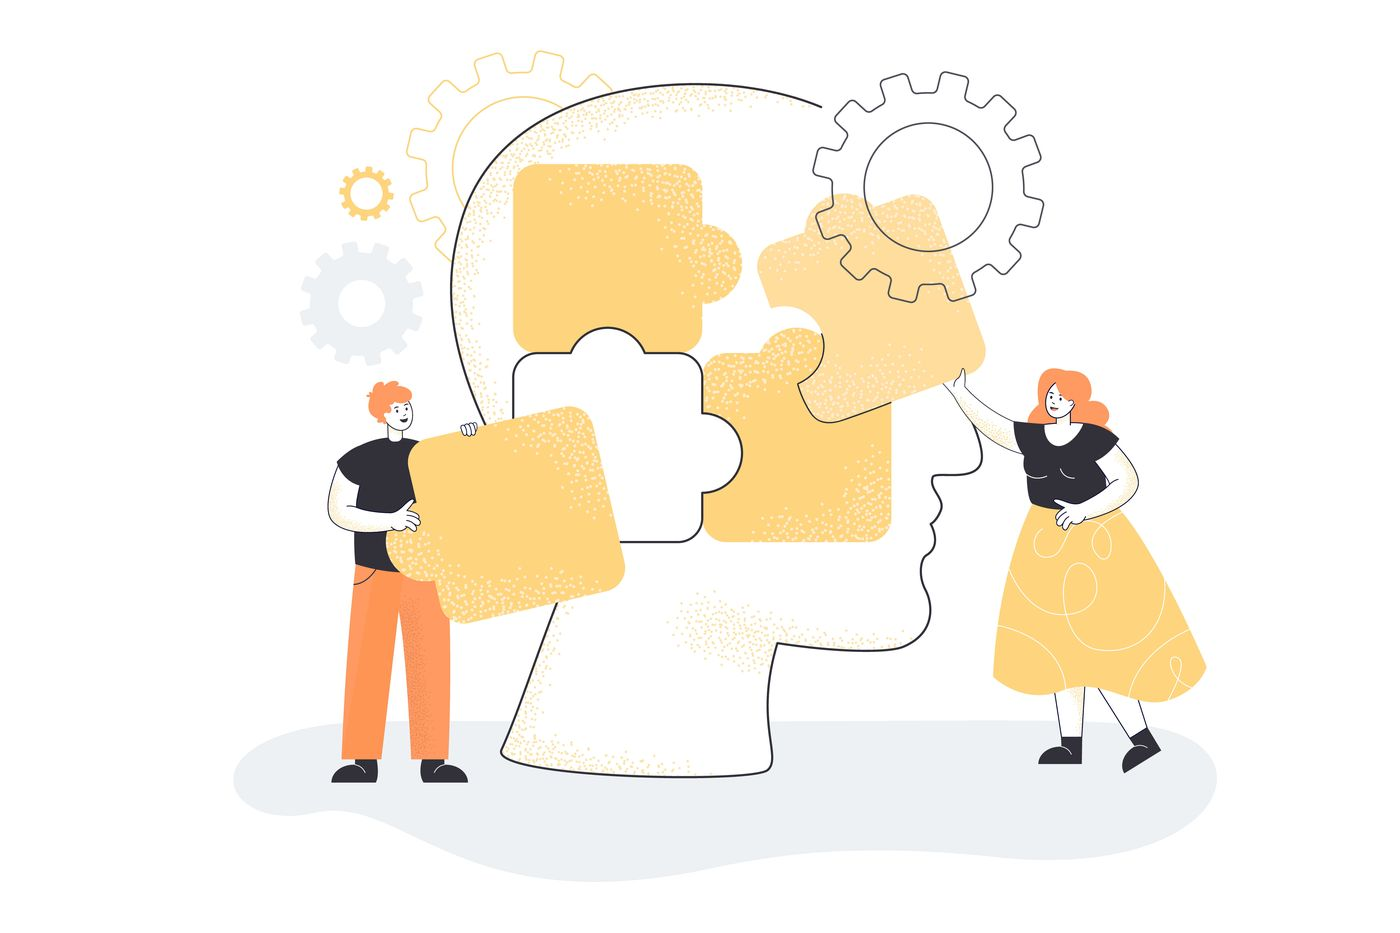
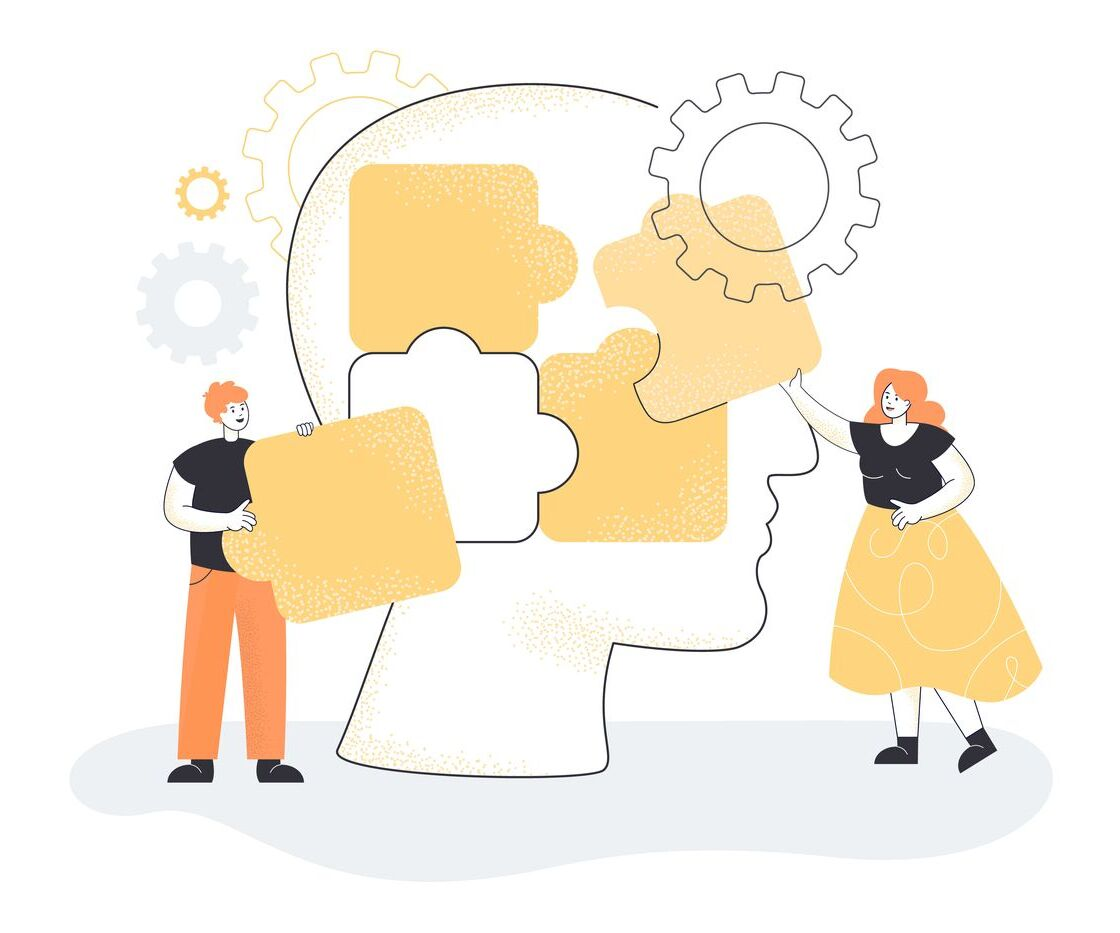
implemento correcciones

Changed region(s): [[0.125, 0.0622, 0.9375, 0.8392], [0.5938, 0.6838, 0.6562, 0.7149]]

diff --git a/index.html b/index.html
@@ -29,6 +29,7 @@
                 </button>
                 <div class="collapse navbar-collapse" id="navbarNavAltMarkup">
                     <div class="navbar-nav">
+                        <a class="nav-link" href="#"><p class="bigText">I</p><p class="normalText">NICIO</p></a>
                         <a class="nav-link" href="#Info Emprendedores" data-bs-toggle="modal" data-bs-target="#exampleModal1"> <p class="bigText">E</p><p class="normalText">MPRENDEDORES </p><p class="bigText"> /</p><p class="normalText">AS</p></a>
                         <a class="nav-link" href="#Info Emprendedores" class="btnInfo" data-bs-toggle="modal" data-bs-target="#exampleModal2"><p class="bigText">P</p><p class="normalText">ROFESIONALES</p></a>
                         <a class="nav-link" href="#quienSoy"><p class="bigText">Q</p><span class="normalText">UIÉN SOY</span></P></a>
@@ -41,7 +42,7 @@
         </nav>
     </header>
     <main class="conatiner-fluid m-0 g-0">
-        <section class="seccion1" id="inicio">
+        <section class="seccion1" id="seccionInicial">
             <div class="ms-md-5 me-md-3 row d-flex flex-md-row g-0">
                 <div class="col-12 col-md-4 ps-md-3 pe-md-5 seccion1__boxIzquierdo">
                     <div class="titledetail">
@@ -177,9 +178,9 @@
             <p class="seccion3__pie--texto1">“Coordinemos una <span class="seccion3__pie--texto2">sesión gratuita de 30 minutos</span> para descubrir la mejor propuesta para vos”.  </p>
         </section>
         <section class="seccion4" id="quienSoy">
-            <img class="imgCecilia" src="images/sobreMi.jpg" style="height: 250px;" alt="">
+            <img class="imgCecilia" src="images/sobreMi.jpg" style="height: 250px;" alt="Imagen Cecilia">
             <div>
-                <h3>Quien soy:</h3>
+                <h3>Quién soy:</h3>
                 <p> <span class="resaltado1">¡Hola! Soy Cecilia Nevole, Psicóloga Laboral, Coach Ontológico y
                         Facilitadora Creativa.</span></p>
                 <p>Durante más de 10 años trabajé en el área de Capital Humano de una reconocida empresa, a cargo de
@@ -209,13 +210,12 @@
                         class="gris">ACCIONAR</span></p>
             </div>
             <div class="metodoEDA">
-                <img src="images/MÉTODO EDA.jpg" alt="">
+                <img src="images/MÉTODO EDA.jpg" alt="Metodo EDA">
             </div>
             <div class="textoEDA">
                 <p>Es un <span class="negrita">PROCESO</span> de <span class="resaltado2">tres etapas</span> que
                     funciona como “itinerario” para llegar a tu <span class="negrita">OBJETIVO</span>, a través de la
-                    exploración de diferentes opciones, soluciones y retos.</p>
-                <p>Todo el recorrido combina <span class="resaltado2">el <span class="negrita">PENSAR</span> y el <span
+                    exploración de diferentes opciones, soluciones y retos. Todo el recorrido combina <span class="resaltado2">el <span class="negrita">PENSAR</span> y el <span
                             class="negrita">HACER</span></span> e invita a conectar con tu <span
                         class="negrita resaltado2">CREATIVIDAD</span> (unir ideas), asumiendo un rol de <span
                         class="negrita resaltado2">PROTAGONISTA</span> (responsable de tu proceso), una <span
@@ -301,7 +301,7 @@
                     <p>Adquirir el mindset de la rápida adaptación ante los cambios.</p>
                 </div>
                 <div class="imagen">
-                    <img src="images/Team of people putting puzzle pieces of huge head together.jpg" alt="">
+                    <img loading="lazy" src="images/Team of people putting puzzle pieces of huge head together.jpg" alt="Personas armando cabeza juntos">
                 </div>
             </div>
             <p class="textoFondo"><span class="resaltado1">ESTA COMBINACIÓN INVITA A PENSAR EN INICIATIVAS MUCHO MÁS ASERTIVAS, COMPRENDER MEJOR CADA DESAFÍO Y CADA SOLUCIÓN QUE SE DISEÑA.</span>
@@ -310,7 +310,7 @@
         </section>
         <section class="seccion9" id="proceso">
             <div class="imagen">
-                <img src="images/Tiny people moving giant gears.jpg" alt="">
+                <img loading="lazy" src="images/Tiny people moving giant gears.jpg" alt="Personas moviendo tuercas">
             </div>
             <div class="texto">
                 <h3><span class="negrita">¿Cómo es el Proceso?
@@ -335,17 +335,17 @@
         </section>
         <section class="seccion10" id="final">
             <div class="imagen">
-                <img src="images/frase_final.jpg" alt="">
+                <img loading="lazy" src="images/frase_final.jpg" alt="Frase Final">
             </div>
             <div class="texto">
                 <p>¿Tenés alguna consulta? ¿Querés más información?</p>
                 <p>Conversemos</p>
             </div>
             <div class="redes">
-                <a href="https://www.instagram.com/eda.mentoring/"><img src="images/instagram-brands.svg" alt=""></a>
-                <a href="https://www.linkedin.com/in/cecilianevole/"><img src="images/linkedin-in-brands.svg" alt=""></a>
-                <a href="mailto:eda.mentoring@gmail.com"><img src="images/envelope-solid.svg" alt=""></a>
-                <a href="https://wa.me/+5491166141508"><img src="images/whatsapp-brands.svg" alt=""></a>
+                <a target="_blank" href="https://www.instagram.com/eda.mentoring/"><img loading="lazy" src="images/instagram-brands.svg" alt="Logo Instagram"></a>
+                <a target="_blank" href="https://www.linkedin.com/in/cecilianevole/"><img loading="lazy" src="images/linkedin-in-brands.svg" alt="Logo Linkedin"></a>
+                <a target="_blank" href="mailto:eda.mentoring@gmail.com"><img loading="lazy" src="images/envelope-solid.svg" alt="Logo Email"></a>
+                <a target="_blank" href="https://wa.me/+5491166141508"><img loading="lazy" src="images/whatsapp-brands.svg" alt="Logo WhatsApp"></a>
             </div>
         </section>
 

diff --git a/css/destino.css b/css/destino.css
@@ -954,15 +954,16 @@ a.btnInfo {
   grid-template-columns: 350px 1fr; }
   .seccion4 div {
     margin-top: 80px;
-    margin-bottom: 10px; }
+    margin-bottom: 10px;
+    padding-bottom: 20px; }
     .seccion4 div h3 {
       font-weight: 700;
       font-family: "Work Sans", sans-serif; }
     .seccion4 div p {
       font-family: "Open Sans", sans-serif;
-      font-size: 18px;
+      font-size: 16px;
       line-height: 30px;
-      padding: 5px 10px 20px 0; }
+      padding: 0 10px 0 0; }
   .seccion4 .imgCecilia {
     margin-top: 100px;
     margin-left: 50px;
@@ -1020,7 +1021,7 @@ a.btnInfo {
     .seccion5 .textoEDA p {
       font-family: "Open Sans", sans-serif;
       padding-right: 50px;
-      line-height: 45px;
+      line-height: 38px;
       font-size: 18px;
       color: #424242; }
 
@@ -1157,34 +1158,40 @@ a.btnInfo {
           font-size: 20px; }
 
 .seccion7 {
-  height: calc(100vh - 70px);
+  height: 100vh;
   display: grid;
   grid-template-rows: 20vh 60vh;
-  justify-content: center; }
+  justify-content: center;
+  background-color: #ffbd4a;
+  position: relative;
+  margin-top: 20px; }
   .seccion7 h2 {
     font-family: "Work Sans", sans-serif;
-    margin-top: 10vh; }
+    margin-top: 15vh; }
   .seccion7 .texto {
-    background-color: #ffbd4a;
+    position: absolute;
     height: 45vh;
     width: 80vw;
-    margin-top: 30px;
+    margin-top: 35vh;
+    margin-left: 10vw;
     display: flex;
-    justify-content: center; }
+    justify-content: center;
+    align-items: center; }
     .seccion7 .texto p {
       font-family: "Open Sans", sans-serif;
       line-height: 70px;
       text-align: center;
       font-size: 20px;
-      padding: 0 15px 40px 15px; }
+      padding: 0 15px 0 15px; }
 
 .seccion8 {
-  height: calc(100vh - 90px);
+  height: 100vh;
   display: grid;
   grid-template-rows: 85% 15%; }
   .seccion8 .principal {
     display: grid;
-    grid-template-columns: 58vw 38vw; }
+    grid-template-columns: 50vw 45vw;
+    margin-top: 7vh; }
     .seccion8 .principal .texto {
       font-size: 18px;
       margin: 30px 10px 0 70px;
@@ -1197,14 +1204,14 @@ a.btnInfo {
       align-content: center;
       align-items: center; }
       .seccion8 .principal .imagen img {
-        width: 40vw; }
+        width: 100%; }
   .seccion8 .textoFondo {
     text-align: center;
     width: 70vw;
     margin: 0 auto; }
 
 .seccion9 {
-  height: calc(100vh - 90px);
+  height: 100vh;
   display: grid;
   grid-template-columns: 50vw 50vw; }
   .seccion9 .imagen {
@@ -1222,34 +1229,36 @@ a.btnInfo {
       font-family: "Open Sans", sans-serif; }
 
 .seccion10 {
-  height: calc(100vh - 90px);
+  height: 100vh;
   display: grid;
-  grid-template-rows: 50vh 20vh 20vh;
+  grid-template-rows: 70vh 15vh 15vh;
   justify-content: center; }
   .seccion10 .imagen {
     display: flex;
     justify-content: center;
-    align-content: center;
-    align-items: center; }
+    align-content: end;
+    align-items: flex-end;
+    margin-bottom: 1.5rem; }
     .seccion10 .imagen img {
-      height: 45vh;
+      height: 50vh;
       width: auto; }
   .seccion10 .texto {
     display: block;
-    justify-content: center;
-    align-items: center; }
+    justify-content: center; }
     .seccion10 .texto p {
       text-align: center;
-      font-size: 18px;
+      margin-bottom: unset;
+      font-size: 1.125rem;
       font-family: "Open Sans", sans-serif; }
   .seccion10 .redes {
     display: flex;
     justify-content: center;
-    align-items: center; }
+    align-items: flex-start;
+    align-content: flex-start; }
     .seccion10 .redes a {
-      height: 50px;
-      width: 50px;
-      margin: 15px; }
+      height: 30px;
+      width: 30px;
+      margin: 0 15px; }
       .seccion10 .redes a img {
-        height: 50px;
-        width: 50px; }
+        height: 40px;
+        width: 40px; }

diff --git a/scss/_seccion10.scss b/scss/_seccion10.scss
@@ -1,40 +1,43 @@
 .seccion10{
-    height: calc(100vh - 90px);
+    height: 100vh;
     display: grid;
-    grid-template-rows: 50vh 20vh 20vh;
+    grid-template-rows: 70vh 15vh 15vh;
     justify-content: center;
     .imagen{
         display: flex;
         justify-content: center;
-        align-content: center;
-        align-items: center;
+        align-content: end;
+        align-items: flex-end;
+        margin-bottom: 1.5rem;
         img{
-            height: 45vh;
+            height: 50vh;
             width: auto;
         }
     }
     .texto{
         display: block;
         justify-content: center;
-        align-items: center;
+
         p{
             text-align: center;
-            font-size: 18px;
+            margin-bottom: unset;
+            font-size: 1.125rem;
             font-family: $OpenSans;
         }
     }
     .redes{
         display: flex;
         justify-content: center;
-        align-items: center;
+        align-items: flex-start;
+        align-content: flex-start;
         a{
-          height: 50px;
-          width: 50px;
-          margin: 15px;
+          height: 30px;
+          width: 30px;
+          margin: 0 15px;
 
             img{
-                height: 50px;
-                width: 50px;
+                height: 40px;
+                width: 40px;
             }
         }
     }    

diff --git a/scss/_seccion7.scss b/scss/_seccion7.scss
@@ -1,25 +1,31 @@
 .seccion7{
-    height: calc(100vh - 70px);
+    height: 100vh;
     display: grid;
     grid-template-rows: 20vh 60vh;
     justify-content: center;
+    background-color: #ffbd4a;
+    position: relative;
+    margin-top: 20px;
+
     h2{
         font-family: $WorkSans;
-        margin-top: 10vh;
+        margin-top: 15vh;
     }
     .texto{
-        background-color: #ffbd4a;
+        position: absolute;
         height: 45vh;
         width: 80vw;
-        margin-top: 30px;
+        margin-top: 35vh;
+        margin-left: 10vw;
         display: flex;
         justify-content: center;
+        align-items: center;
         p{
             font-family: $OpenSans;
             line-height: 70px;
             text-align: center;
             font-size: 20px;
-            padding: 0 15px 40px 15px;
+            padding: 0 15px 0 15px;
         }
     }
 }

diff --git a/scss/_seccion8.scss b/scss/_seccion8.scss
@@ -1,10 +1,11 @@
 .seccion8{
-    height: calc(100vh - 90px);
+    height: 100vh;
     display: grid;
     grid-template-rows: 85% 15%;
     .principal{
         display: grid;
-        grid-template-columns: 58vw 38vw;
+        grid-template-columns: 50vw 45vw;
+        margin-top: 7vh;
         .texto{
             font-size: 18px;
             margin: 30px 10px 0 70px;
@@ -19,7 +20,7 @@
             align-content: center;
             align-items: center;
             img{
-                width: 40vw;
+                width: 100%;
             }
         }
     }

diff --git a/scss/_seccion4.scss b/scss/_seccion4.scss
@@ -21,6 +21,7 @@
     div {
         margin-top: 80px;
         margin-bottom: 10px;
+        padding-bottom: 20px;
         h3{
             font-weight: 700;
             font-family: $WorkSans;
@@ -28,9 +29,9 @@
 
         p {
             font-family: $OpenSans;
-            font-size: 18px;
+            font-size: 16px;
             line-height: 30px;
-            padding: 5px 10px 20px 0;
+            padding: 0 10px 0 0;
         }
     }
 

diff --git a/scss/_seccion5.scss b/scss/_seccion5.scss
@@ -68,7 +68,7 @@
         p{
             font-family: $OpenSans;
             padding-right: 50px;
-            line-height: 45px;
+            line-height: 38px;
             font-size: 18px;
             color: rgb(66, 66, 66);
         }

diff --git a/scss/_seccion9.scss b/scss/_seccion9.scss
@@ -1,5 +1,5 @@
 .seccion9{
-    height: calc(100vh - 90px);
+    height: 100vh;
     display: grid;
     grid-template-columns: 50vw 50vw;
     .imagen{
